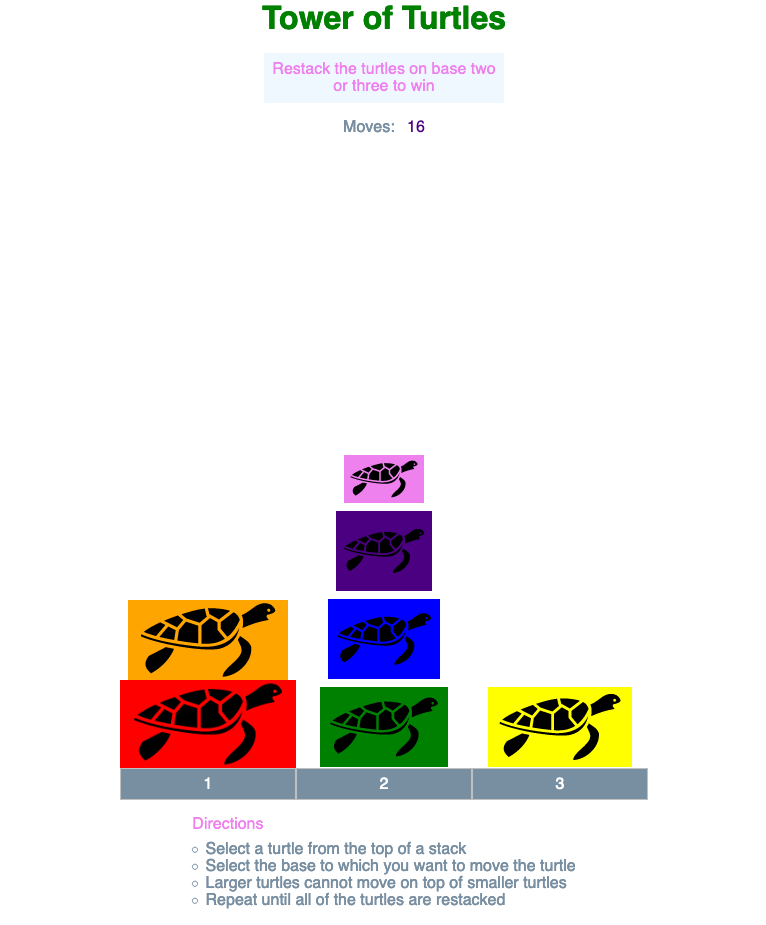
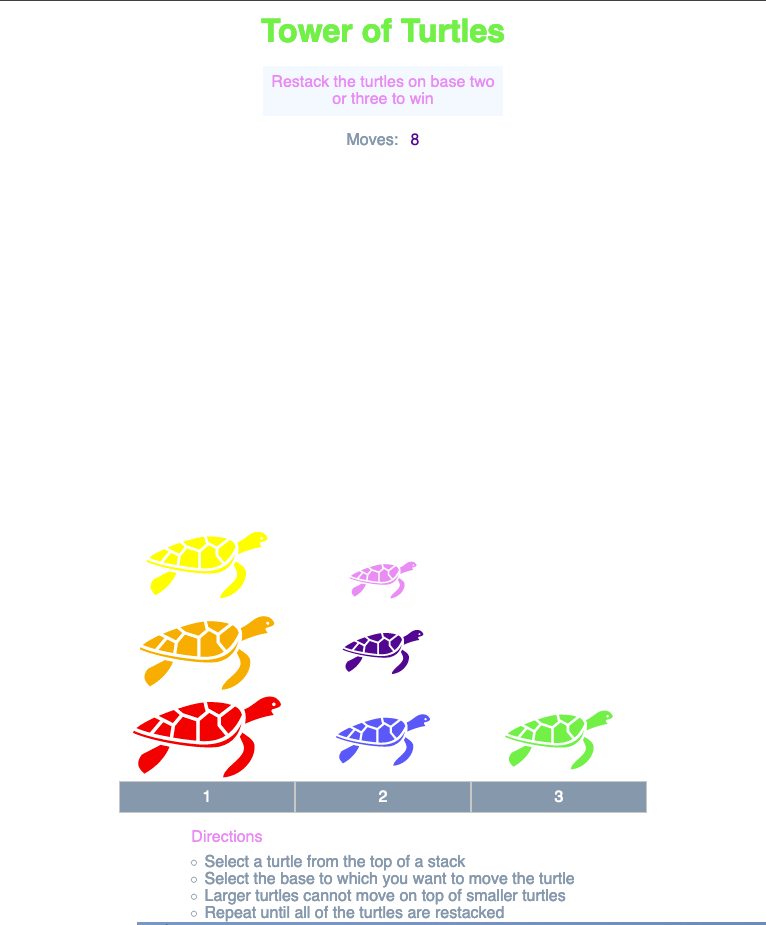
Replace blocks with rainbow turtles, update screenshot

Changed region(s): [[0.1501, 0.4843, 1.0, 1.0], [0.3303, 0.0, 0.6606, 0.1816]]

diff --git a/style.css b/style.css
@@ -10,8 +10,8 @@
 	--red: #ff0000;
 	--orange: #ffa500;
 	--yellow: #ffff00;
-	--green: #008000;
-	--blue: #0000ff;
+	--green: #4eee4e;
+	--blue: #4b4bf1;
 	--indigo: #4b0082;
 	--violet: #ee81ee;
 	--highlight: silver;
@@ -73,7 +73,6 @@ main {
 	display: grid;
 	grid-template-rows: 1fr 1fr 1fr 1fr 1fr 1fr 1fr;
 	grid-template-columns: 1fr 1fr 1fr;
-	/* max-width: 90%; */
 	margin-top: 1rem;
 }
 
@@ -88,8 +87,7 @@ main {
 	height: 3rem;
 	grid-row: 1;
 	grid-column: 1;
-	background-color: var(--violet);
-	background-image: url(./noun_turtle_1189418.svg);
+	background-image: url(./violet_noun_turtle_1189418.svg);
 	background-size: cover;
 	background-repeat: no-repeat;
 	background-position: center;
@@ -100,8 +98,7 @@ main {
 	height: 5rem;
 	grid-row: 2;
 	grid-column: 1;
-	background-color: var(--indigo);
-	background-image: url(./noun_turtle_1189418.svg);
+	background-image: url(./indigo_noun_turtle_1189418.svg);
 	background-size: cover;
 	background-repeat: no-repeat;
 	background-position: center;
@@ -112,8 +109,7 @@ main {
 	height: 5rem;
 	grid-row: 3;
 	grid-column: 1;
-	background-color: var(--blue);
-	background-image: url(./noun_turtle_1189418.svg);
+	background-image: url(./blue_noun_turtle_1189418.svg);
 	background-size: cover;
 	background-repeat: no-repeat;
 	background-position: center;
@@ -124,8 +120,7 @@ main {
 	height: 5rem;
 	grid-row: 4;
 	grid-column: 1;
-	background-color: var(--green);
-	background-image: url(./noun_turtle_1189418.svg);
+	background-image: url(./green_noun_turtle_1189418.svg);
 	background-size: cover;
 	background-repeat: no-repeat;
 	background-position: center;
@@ -136,8 +131,7 @@ main {
 	height: 5rem;
 	grid-row: 5;
 	grid-column: 1;
-	background-color: var(--yellow);
-	background-image: url(./noun_turtle_1189418.svg);
+	background-image: url(./yellow_noun_turtle_1189418.svg);
 	background-size: cover;
 	background-repeat: no-repeat;
 	background-position: center;
@@ -148,8 +142,7 @@ main {
 	height: 5rem;
 	grid-row: 6;
 	grid-column: 1;
-	background-color: var(--orange);
-	background-image: url(./noun_turtle_1189418.svg);
+	background-image: url(./orange_noun_turtle_1189418.svg);
 	background-size: cover;
 	background-repeat: no-repeat;
 	background-position: center;
@@ -160,8 +153,7 @@ main {
 	height: 5.5rem;
 	grid-row: 7;
 	grid-column: 1;
-	background-color: var(--red);
-	background-image: url(./noun_turtle_1189418.svg);
+	background-image: url(./red_noun_turtle_1189418.svg);
 	background-size: cover;
 	background-repeat: no-repeat;
 	background-position: center;
@@ -228,17 +220,17 @@ button:active {
 
 /** Media queries ############### */
 /** media greater >= 1440px  */
-@media all and (min-width: 1440px) {
-}
+/* @media all and (min-width: 1440px) {
+} */
 
 /** media less than 1000px  */
-@media all and (max-width: 999px) {
-}
+/* @media all and (max-width: 999px) {
+} */
 
 /** media less than 768px  */
-@media all and (max-width: 767px) {
-}
+/* @media all and (max-width: 767px) {
+} */
 
 /** media less than 600px  */
-@media all and (max-width: 599px) {
-}
+/* @media all and (max-width: 599px) {
+} */
